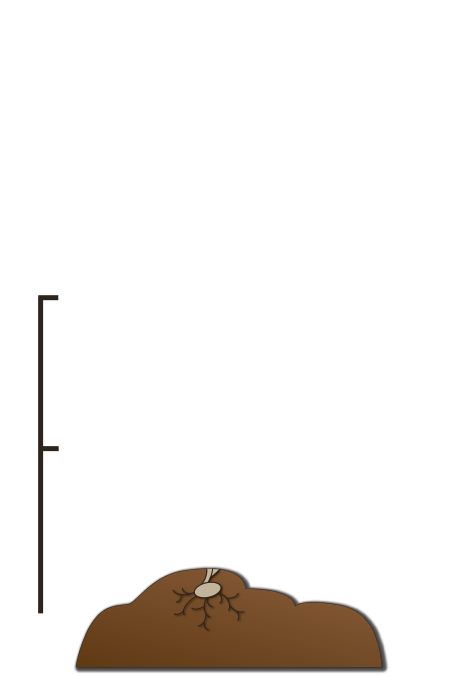
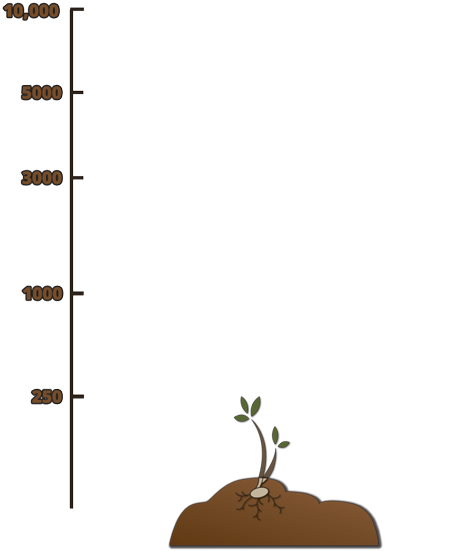
Fixed tree-stages

Changed region(s): [[0.0, 0.0, 0.8412, 1.0]]

diff --git a/mycleancity/templates/cleanteams/clean_team_profile.html b/mycleancity/templates/cleanteams/clean_team_profile.html
@@ -17,7 +17,34 @@
   
   <div class="content">
     <div class="container">
-        <img src="{{ STATIC_URL }}{{ clean_team.level.tree_level }}" alt="Tree Level" id="tree-progress" />
+
+        {% if clean_team.clean_creds < 250 %}
+        <img src="{{ STATIC_URL }}images/clean-team-tree-stage-0.png" alt="Tree Level" id="tree-progress">
+        {% else %}
+          {% if clean_team.clean_creds < 1000 %}
+          <img src="{{ STATIC_URL }}images/clean-team-tree-stage-1.png" alt="Tree Level" id="tree-progress">
+          {% else %}
+            {% if clean_team.clean_creds < 3000 %}
+            <img src="{{ STATIC_URL }}images/clean-team-tree-stage-2.png" alt="Tree Level" id="tree-progress">
+            {% else %}
+              {% if clean_team.clean_creds < 3000 %}
+              <img src="{{ STATIC_URL }}images/clean-team-tree-stage-2.png" alt="Tree Level" id="tree-progress">
+              {% else %}
+                {% if clean_team.clean_creds < 5000 %}
+                <img src="{{ STATIC_URL }}images/clean-team-tree-stage-3.png" alt="Tree Level" id="tree-progress">
+                {% else %}
+                  {% if clean_team.clean_creds < 10000 %}
+                  <img src="{{ STATIC_URL }}images/clean-team-tree-stage-4.png" alt="Tree Level" id="tree-progress">
+                  {% else %}
+                    {% if clean_team.clean_creds > 9999 %}
+                    <img src="{{ STATIC_URL }}images/clean-team-tree-stage-5.png" alt="Tree Level" id="tree-progress">
+                    {% endif %}
+                  {% endif %}
+                {% endif %}
+              {% endif %}
+            {% endif %}
+          {% endif %}
+        {% endif %}
         
         <div id="white-box" class="public-profile clean-team-profile">
           

diff --git a/mycleancity/static/css/mycleancity.css b/mycleancity/static/css/mycleancity.css
@@ -435,7 +435,7 @@ div.content.leadership-board { background: transparent url(../images/no-trees-bg
 #sign-leaderboard #your-points span.points { float: right; margin-right: 52px; }
 #sign-leaderboard a.btn { margin: 54px auto 0; width: 400px; font-size: 17px; padding-top: 9px; }
 
-#tree-progress { display: block; z-index: 999; float: left; margin-left: 30px; position: absolute; top: -121px; }
+#tree-progress { display: block; z-index: 999; float: left; margin-left: 30px; position: absolute; top: -2px; }
 
 /******************************
 	Challenge Participants Page
